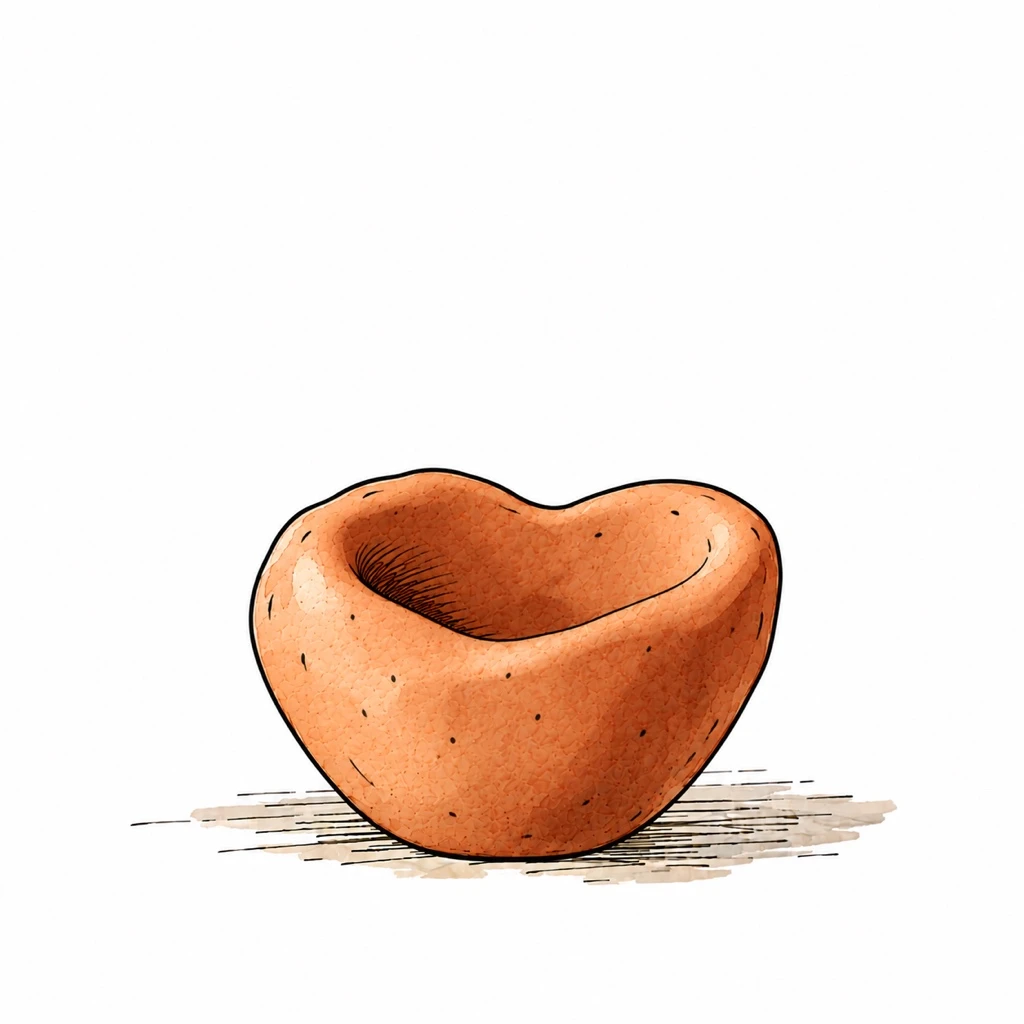
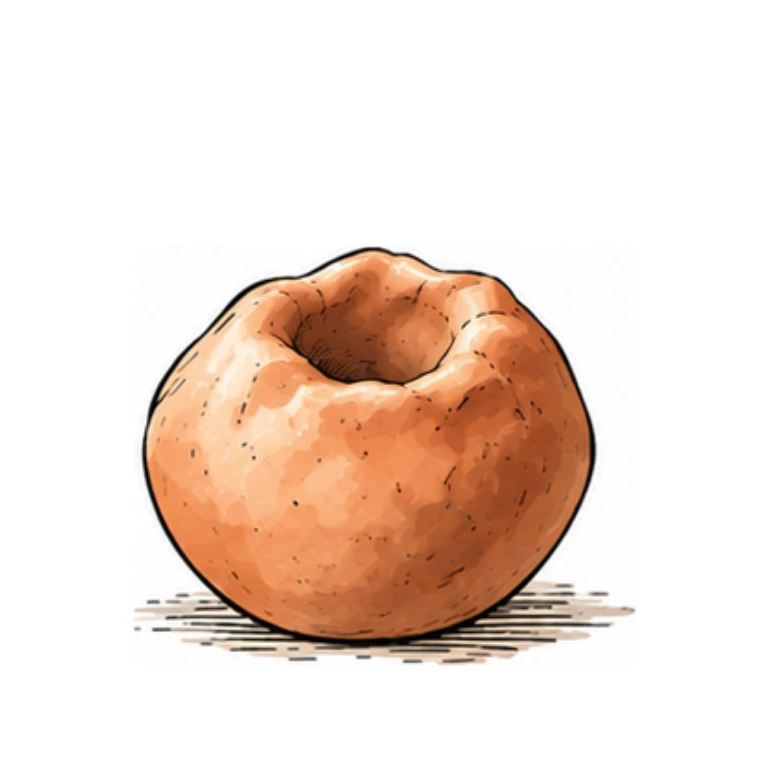
Art mock: sequence from the reverse grid ending on the designed jar (raw, bisque, glazed); no ghost outlines
Claude-Session: https://claude.ai/code/session_016vts2yeCYib5QCUqFcUnKK

Changed region(s): [[0.1562, 0.3125, 0.875, 0.875]]

diff --git a/mocks/art6/index.html b/mocks/art6/index.html
@@ -140,13 +140,13 @@
         { id: "top", stage: 0, eyebrow: "ceramics · porto", h1: "Ivo Lopes", lead: "Earth, water, fire and time.", body: ["Ceramics, built by hand. Scroll, and follow a ball of clay all the way to a finished jar."], hint: true },
         { id: "prepare", stage: 0, eyebrow: "01 · prepare", h: "It starts as a ball", body: ["Clay is wedged first: pressed, folded and turned on the bench until the air is out and it is even all the way through. Then it is rolled into a ball.", "Skip it, and a hidden air pocket can crack the piece in the kiln weeks later."] },
         { id: "pinch", stage: 4, eyebrow: "02 · pinch", h: "Pinch it open", body: ["A thumb goes into the ball. Turning it slowly in the hand, the walls are pinched out between thumb and fingers, a little thinner with every round."] },
-        { id: "base", stage: 8, eyebrow: "03 · base", h: "A small bowl", body: ["The pinched form becomes a bowl with an even wall: the base everything else is built on."] },
-        { id: "coil", stage: 12, eyebrow: "04 · coil", h: "Coil by coil", body: ["Clay is rolled into long ropes and laid around the rim one coil at a time, each one scored and joined to the last with slip. Placing a coil slightly in or out is how the form starts to curve."] },
-        { id: "shape", stage: 14, eyebrow: "05 · shape", h: "One skin", body: ["The coils are blended into one smooth skin with fingers and a wooden rib. No two pieces come out alike, and each keeps a little of the hands that made it."] },
-        { id: "fire", stage: 17, eyebrow: "06 · fire", h: "Through the fire", body: ["Bone dry, the piece goes into the kiln for its first firing, the bisque, at around 950°C. Clay turns into ceramic and shrinks a little on the way."] },
-        { id: "glaze", stage: 20, eyebrow: "07 · glaze", h: "Glaze, and fire again", body: ["Then glaze, and a second, hotter firing that melts it into glass. Every glaze moves a little differently in the heat, so the kiln has the last word."] },
-        { id: "work", stage: 20, eyebrow: "work", h: "A few pieces", body: ["Each one made the same slow way."], works: [["Piece I", "photo coming soon"], ["Piece II", "photo coming soon"], ["Piece III", "photo coming soon"]] },
-        { id: "order", stage: 20, eyebrow: "order", h: "Order a piece", body: ["Have something in mind? Send a photo or two of a piece you love, describe what you would like, and you will get a reply by email with a price."], cta: "Order a piece", mail: "Questions, or just to talk clay:" },
+        { id: "base", stage: 7, eyebrow: "03 · base", h: "A small bowl", body: ["The pinched form becomes a bowl with an even wall: the base everything else is built on."] },
+        { id: "coil", stage: 9, eyebrow: "04 · coil", h: "Coil by coil", body: ["Clay is rolled into long ropes and laid around the rim one coil at a time, each one scored and joined to the last with slip. Placing a coil slightly in or out is how the form starts to curve."] },
+        { id: "shape", stage: 11, eyebrow: "05 · shape", h: "One skin", body: ["The coils are blended into one smooth skin with fingers and a wooden rib. No two pieces come out alike, and each keeps a little of the hands that made it."] },
+        { id: "fire", stage: 12, eyebrow: "06 · fire", h: "Through the fire", body: ["Bone dry, the piece goes into the kiln for its first firing, the bisque, at around 950°C. Clay turns into ceramic and shrinks a little on the way."] },
+        { id: "glaze", stage: 13, eyebrow: "07 · glaze", h: "Glaze, and fire again", body: ["Then glaze, and a second, hotter firing that melts it into glass. Every glaze moves a little differently in the heat, so the kiln has the last word."] },
+        { id: "work", stage: 13, eyebrow: "work", h: "A few pieces", body: ["Each one made the same slow way."], works: [["Piece I", "photo coming soon"], ["Piece II", "photo coming soon"], ["Piece III", "photo coming soon"]] },
+        { id: "order", stage: 13, eyebrow: "order", h: "Order a piece", body: ["Have something in mind? Send a photo or two of a piece you love, describe what you would like, and you will get a reply by email with a price."], cta: "Order a piece", mail: "Questions, or just to talk clay:" },
       ],
     },
     pt: {
@@ -157,13 +157,13 @@
         { id: "top", stage: 0, eyebrow: "cerâmica · porto", h1: "Ivo Lopes", lead: "Terra, água, fogo e tempo.", body: ["Cerâmica construída à mão. Desliza e acompanha uma bola de barro até ser um jarro acabado."], hint: true },
         { id: "prepare", stage: 0, eyebrow: "01 · preparar", h: "Começa numa bola", body: ["Primeiro, o barro é amassado: pressionado, dobrado e rodado na bancada até sair o ar e ficar uniforme por dentro. Depois, enrola-se numa bola.", "Sem este passo, uma bolha de ar escondida pode rachar a peça no forno semanas depois."] },
         { id: "pinch", stage: 4, eyebrow: "02 · beliscar", h: "Abrir com o polegar", body: ["Um polegar entra na bola. A rodar devagar na mão, as paredes vão sendo apertadas entre o polegar e os dedos, um pouco mais finas a cada volta."] },
-        { id: "base", stage: 8, eyebrow: "03 · base", h: "Uma pequena taça", body: ["A forma beliscada passa a uma taça de parede uniforme: a base onde tudo o resto é construído."] },
-        { id: "coil", stage: 12, eyebrow: "04 · rolos", h: "Rolo a rolo", body: ["O barro é enrolado em cordas compridas, assentes à volta do bordo um rolo de cada vez, cada um riscado e colado ao anterior com barbotina. Pôr um rolo um pouco mais para dentro ou para fora é o que começa a curvar a forma."] },
-        { id: "shape", stage: 14, eyebrow: "05 · moldar", h: "Uma só pele", body: ["Os rolos são fundidos numa só pele lisa, com os dedos e uma costela de madeira. Não há duas peças iguais, e cada uma guarda um pouco das mãos que a fizeram."] },
-        { id: "fire", stage: 17, eyebrow: "06 · cozer", h: "Pelo fogo", body: ["Bem seca, a peça vai ao forno para a primeira cozedura, a chacota, a cerca de 950°C. O barro passa a cerâmica e encolhe um pouco pelo caminho."] },
-        { id: "glaze", stage: 20, eyebrow: "07 · vidrar", h: "Vidrar, e voltar ao fogo", body: ["Depois vem o vidrado, e uma segunda cozedura, mais quente, que o derrete em vidro. Cada vidrado corre um pouco à sua maneira no calor, por isso a última palavra é do forno."] },
-        { id: "work", stage: 20, eyebrow: "trabalhos", h: "Algumas peças", body: ["Todas feitas da mesma maneira lenta."], works: [["Peça I", "fotografia em breve"], ["Peça II", "fotografia em breve"], ["Peça III", "fotografia em breve"]] },
-        { id: "order", stage: 20, eyebrow: "encomendar", h: "Encomendar uma peça", body: ["Tens uma ideia? Envia uma ou duas fotografias de uma peça de que gostes, descreve o que procuras, e recebes uma resposta por email com um orçamento."], cta: "Encomendar uma peça", mail: "Perguntas, ou só para falar de barro:" },
+        { id: "base", stage: 7, eyebrow: "03 · base", h: "Uma pequena taça", body: ["A forma beliscada passa a uma taça de parede uniforme: a base onde tudo o resto é construído."] },
+        { id: "coil", stage: 9, eyebrow: "04 · rolos", h: "Rolo a rolo", body: ["O barro é enrolado em cordas compridas, assentes à volta do bordo um rolo de cada vez, cada um riscado e colado ao anterior com barbotina. Pôr um rolo um pouco mais para dentro ou para fora é o que começa a curvar a forma."] },
+        { id: "shape", stage: 11, eyebrow: "05 · moldar", h: "Uma só pele", body: ["Os rolos são fundidos numa só pele lisa, com os dedos e uma costela de madeira. Não há duas peças iguais, e cada uma guarda um pouco das mãos que a fizeram."] },
+        { id: "fire", stage: 12, eyebrow: "06 · cozer", h: "Pelo fogo", body: ["Bem seca, a peça vai ao forno para a primeira cozedura, a chacota, a cerca de 950°C. O barro passa a cerâmica e encolhe um pouco pelo caminho."] },
+        { id: "glaze", stage: 13, eyebrow: "07 · vidrar", h: "Vidrar, e voltar ao fogo", body: ["Depois vem o vidrado, e uma segunda cozedura, mais quente, que o derrete em vidro. Cada vidrado corre um pouco à sua maneira no calor, por isso a última palavra é do forno."] },
+        { id: "work", stage: 13, eyebrow: "trabalhos", h: "Algumas peças", body: ["Todas feitas da mesma maneira lenta."], works: [["Peça I", "fotografia em breve"], ["Peça II", "fotografia em breve"], ["Peça III", "fotografia em breve"]] },
+        { id: "order", stage: 13, eyebrow: "encomendar", h: "Encomendar uma peça", body: ["Tens uma ideia? Envia uma ou duas fotografias de uma peça de que gostes, descreve o que procuras, e recebes uma resposta por email com um orçamento."], cta: "Encomendar uma peça", mail: "Perguntas, ou só para falar de barro:" },
       ],
     },
   };
@@ -191,7 +191,7 @@
       ${s.h1 ? `<h1>${esc(s.h1)}</h1>` : `<h2>${esc(s.h)}</h2>`}
       ${s.lead ? `<p class="lead">${esc(s.lead)}</p>` : ""}
       ${s.body.map((p) => `<p>${esc(p)}</p>`).join("")}
-      ${s.works ? `<div class="works">${s.works.map(([t, n]) => `<figure class="piece"><div class="ph"><img src="assets/f-20.webp" alt="" loading="lazy"></div><figcaption>${esc(t)}<small>${esc(n)}</small></figcaption></figure>`).join("")}</div>` : ""}
+      ${s.works ? `<div class="works">${s.works.map(([t, n]) => `<figure class="piece"><div class="ph"><img src="assets/f-13.webp" alt="" loading="lazy"></div><figcaption>${esc(t)}<small>${esc(n)}</small></figcaption></figure>`).join("")}</div>` : ""}
       ${s.cta ? `<a class="order-btn" href="${ORDER_URL}">${esc(s.cta)} <span aria-hidden="true">→</span></a><p class="mail">${esc(s.mail)} <a href="mailto:mail@ivolopes.com">mail@ivolopes.com</a></p><p class="foot">${esc(c.footer)}</p>` : ""}
       ${s.hint ? `<p class="hint"><i></i>${esc(c.hint)}</p>` : ""}
     </div></section>`).join("");
@@ -208,8 +208,8 @@
      the base, so one object visibly changes shape; the new stage bleeds in
      through a watercolour edge, with a slight wet-ink ripple. */
   const jar = $("jar");
-  const STAGES = 21;
-  const WASH_FROM = 14;   // from here on only the colour changes (drying, then glazing)   // frames f-00 … f-20: the seven drawings and the in-betweens
+  const STAGES = 14;
+  const WASH_FROM = 11;   // from here on only the colour changes (drying, then glazing)   // frames f-00 … f-13: ball to raw jar, then bisque and glazed
   const morph = (() => {
     const cv = document.createElement("canvas");
     const gl = cv.getContext("webgl", { premultipliedAlpha: false, antialias: true });
@@ -257,6 +257,9 @@
         // Shape changes: an even, aligned dissolve. Colour-only changes: the colour spreads like a wash.
         float m = mix(e, smoothstep(g - .22, g + .22, f * 1.44 - .22), uWash);
         vec3 col = mix(a, b, m);
+        // Outside the in-between outline there is only paper, except below the base,
+        // where the hatched shadow lives: no ghost of either drawing's old outline.
+        if (uWash < .5) col = mix(vec3(1.), col, max(inside, smoothstep(.985, 1.0, tM)));
         // Watercolour bloom: pigment gathers at the wet edge.
         float edge = 1. - abs(m * 2. - 1.);
         col *= 1. - edge * .06 * wob * uWash * smoothstep(.05, .2, 1. - min(col.r, min(col.g, col.b)));
@@ -418,8 +421,8 @@
     imgs.forEach((im, i) => { im.style.opacity = Math.max(0, 1 - Math.abs(s - i)).toFixed(3); });
     // The kiln: a warm glow while the raw jar is fired into bisque.
     // The kiln: a warm glow while the raw jar is fired into bisque.
-    $("kiln").style.opacity = Math.max(0, 1 - Math.abs(s - 15.5) / 1.6).toFixed(3);
-    const KEYS = [0, 4, 8, 12, 14, 17, 20];
+    $("kiln").style.opacity = Math.max(0, 1 - Math.abs(s - 11.5) / .6).toFixed(3);
+    const KEYS = [0, 4, 7, 9, 11, 12, 13];
     let n = 0; KEYS.forEach((k, i) => { if (Math.abs(s - k) < Math.abs(s - KEYS[n])) n = i; });
     const lb = $("label");
     const txt = `<b>${String(n + 1).padStart(2, "0")}</b>${esc(c.stages[n])}`;
